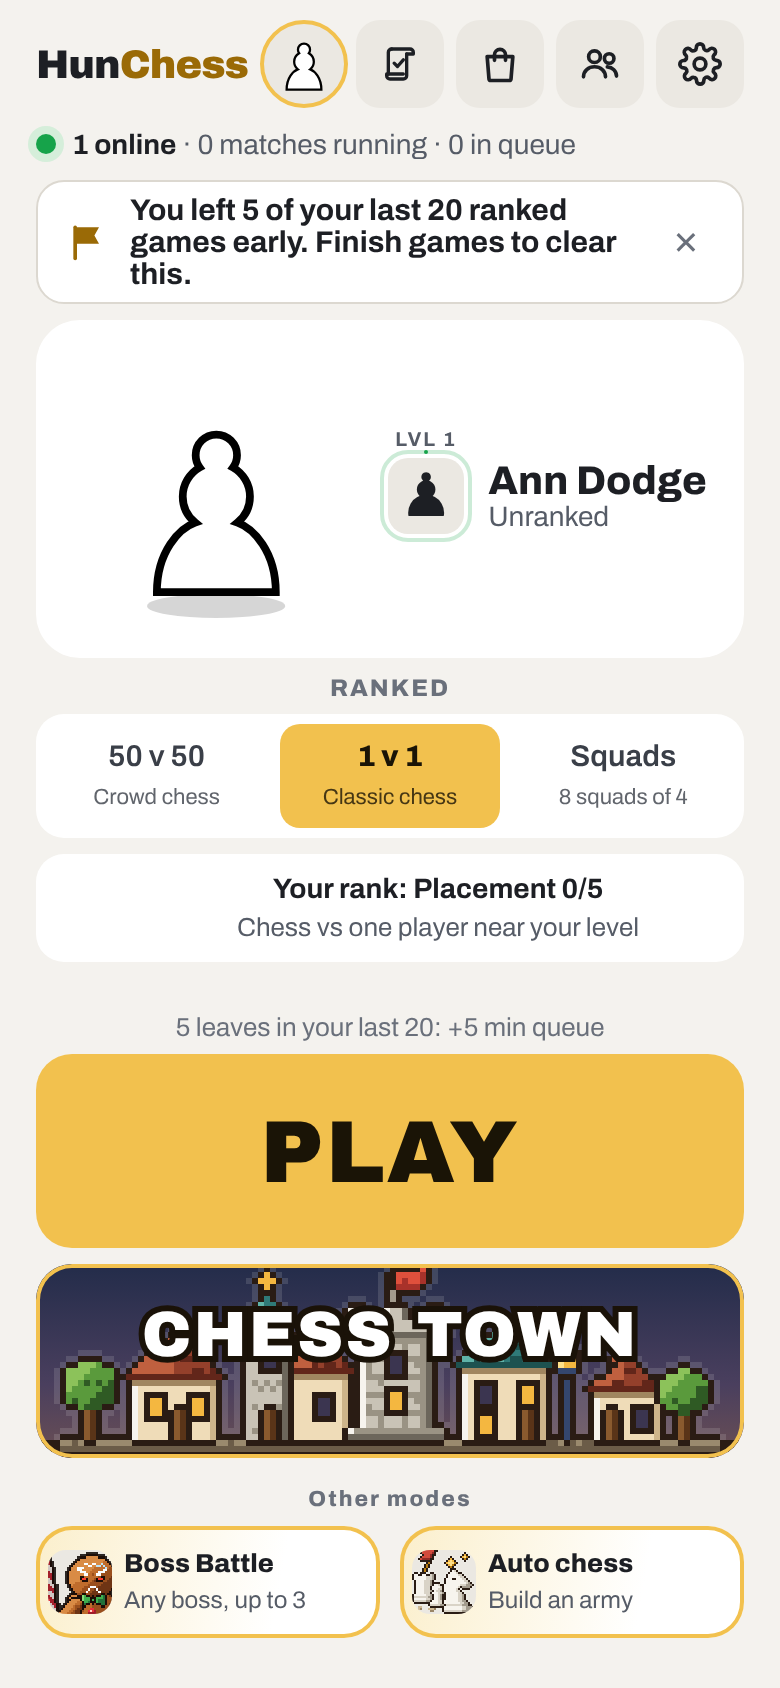
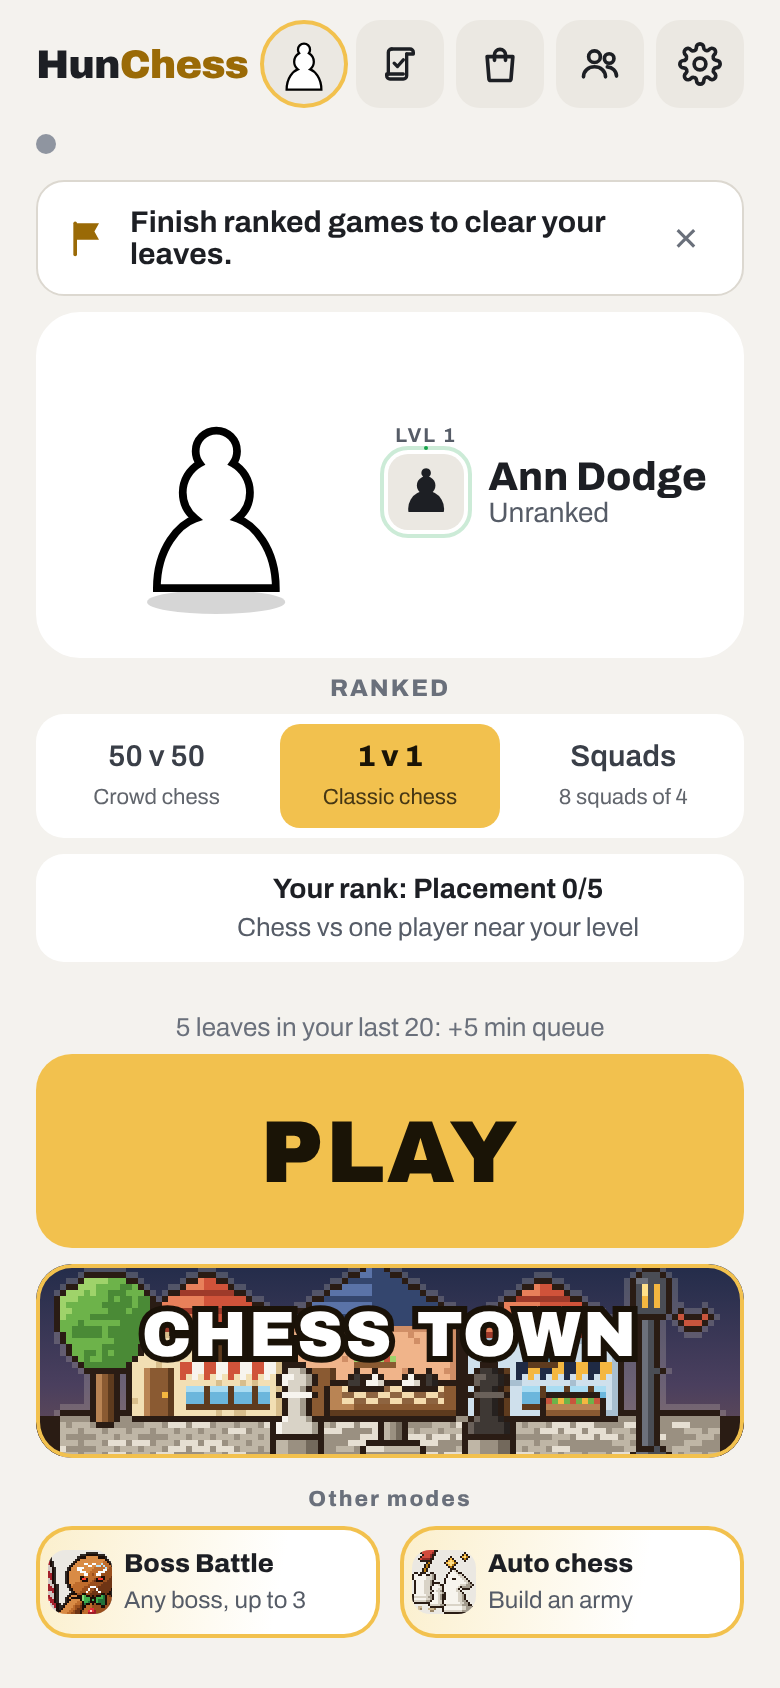
Ranked L1 stills: the shorter 5-mark note

diff --git a/README.md b/README.md
@@ -3,5 +3,5 @@
 390 × 844, light, 2×. The server's standing is faked (page.route on /api/me) for 1 and 2; 3 is a real game in its vote.
 
 1. `1-home-note-and-locked-play.png`: home after a second dodge: the note ("You left before the game started: −10 RP"), and 1 v 1's PLAY greyed with its countdown in the line above it.
-2. `2-home-delayed-queue.png`: 5 leaves in the last 20: the delayed queue's line, PLAY on, the note "Finish games to clear this."
+2. `2-home-delayed-queue.png`: 5 leaves in the last 20: the delayed queue's line, PLAY on, the note "Finish ranked games to clear your leaves."
 3. `3-abort-confirm.png`: the match menu's Leave confirm during the vote: what a dodge would cost now.
